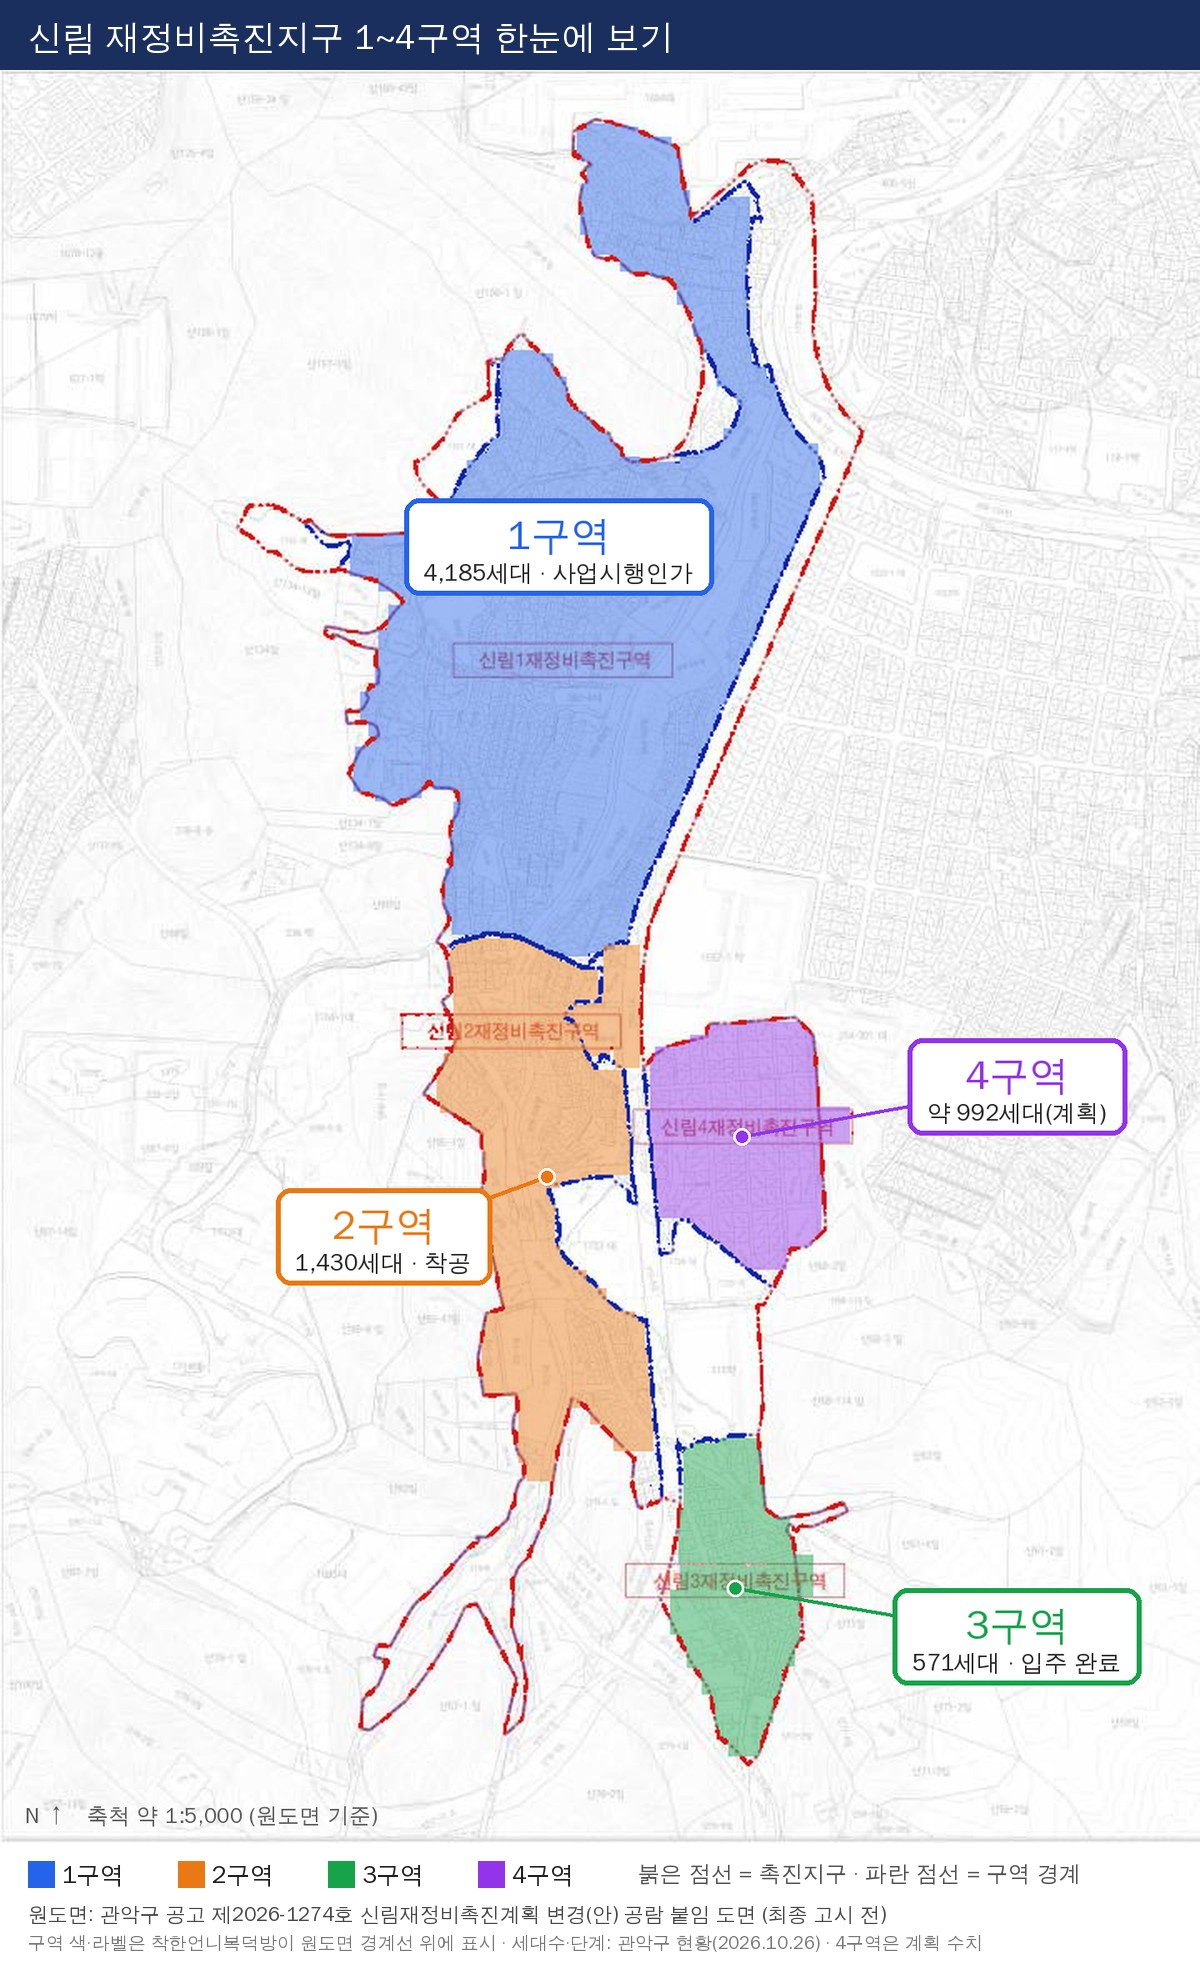
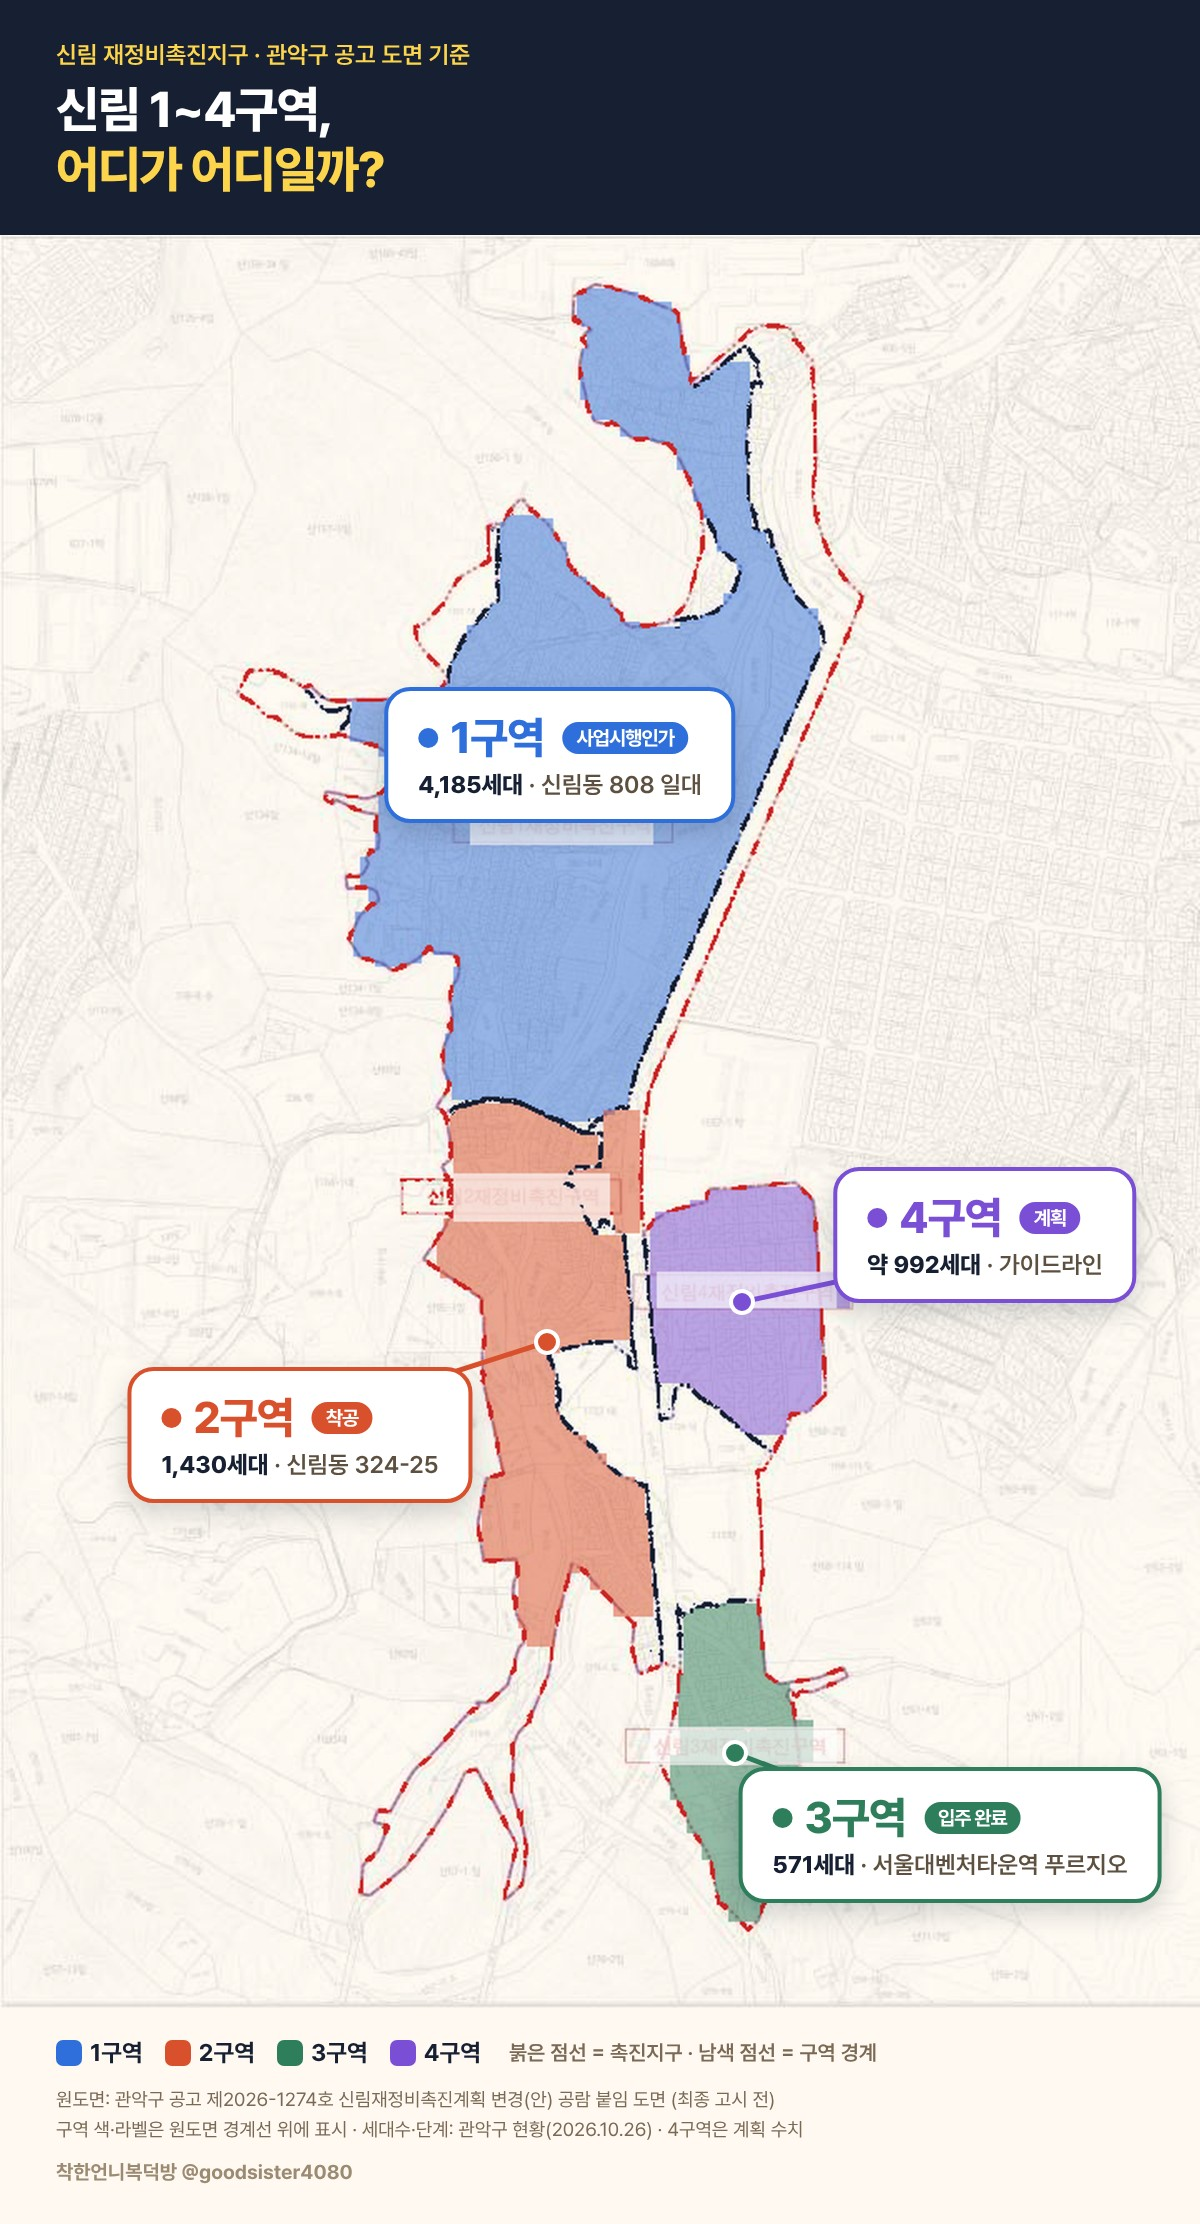
Restyle Sillim zone map in card-news tone (Pretendard, card palette)
Claude-Session: https://claude.ai/code/session_01TVq9LzjZFYSSJLZgCBoE65

diff --git a/naver/paste/img/src/zones.html b/naver/paste/img/src/zones.html
@@ -1,0 +1,48 @@
+<!doctype html><html lang="ko"><head><meta charset="utf-8">
+<link rel="stylesheet" href="https://cdn.jsdelivr.net/gh/orioncactus/pretendard@v1.3.9/dist/web/static/pretendard.min.css">
+<style>
+*{box-sizing:border-box;margin:0;padding:0}
+body{font-family:Pretendard,sans-serif;word-break:keep-all;background:#888}
+.w{width:1200px;background:#FFF9F1;color:#172033}
+.hd{background:#172033;color:#fff;padding:40px 56px 36px}
+.hd .ey{font-size:24px;font-weight:600;color:#FDD54D;margin-bottom:10px}
+.hd h1{font-size:50px;font-weight:800;letter-spacing:-1.5px;line-height:1.2}
+.hd h1 .y{color:#FDD54D}
+.map{position:relative;width:1200px;height:1773px;background:url(base_nolabel.png) 0 0/1200px auto no-repeat}
+svg{position:absolute;inset:0}
+.lb{position:absolute;transform:translate(-50%,-50%);background:#fff;border-radius:26px;padding:20px 30px 20px;box-shadow:0 10px 26px rgba(23,32,51,.18);border:4px solid var(--c);text-align:left;white-space:nowrap}
+.lb .n{display:flex;align-items:center;gap:12px;font-size:44px;font-weight:800;letter-spacing:-1px;color:var(--c)}
+.lb .n i{display:inline-block;width:20px;height:20px;border-radius:50%;background:var(--c)}
+.lb .s{font-size:24px;font-weight:600;color:#5D5040;margin-top:6px}
+.lb .s b{color:#172033;font-weight:800}
+.st{display:inline-block;font-size:20px;font-weight:700;color:#fff;background:var(--c);border-radius:999px;padding:4px 14px;margin-left:6px;vertical-align:3px}
+.ft{padding:30px 56px 40px}
+.lg{display:flex;flex-wrap:wrap;gap:12px 22px;align-items:center;font-size:24px;font-weight:700}
+.lg span{display:flex;align-items:center;gap:8px}
+.lg i{width:26px;height:26px;border-radius:7px;display:inline-block}
+.lg em{font-style:normal;font-size:21px;font-weight:600;color:#7A6A55;margin-left:6px}
+.src{margin-top:18px;font-size:19px;color:#7A6A55;line-height:1.6}
+.brand{margin-top:14px;font-size:20px;font-weight:700;color:#9C8B73}
+</style></head><body><div class="w">
+<div class="hd"><p class="ey">신림 재정비촉진지구 · 관악구 공고 도면 기준</p><h1>신림 1~4구역,<br><span class="y">어디가 어디일까?</span></h1></div>
+<div class="map">
+<svg width="1200" height="1773">
+ <g stroke-width="5" fill="none">
+  <line x1="547" y1="1107" x2="320" y2="1180" stroke="#D9502C"/>
+  <line x1="742" y1="1067" x2="985" y2="1015" stroke="#7A4FD6"/>
+  <line x1="735" y1="1518" x2="950" y2="1600" stroke="#2E7D5B"/>
+ </g>
+ <circle cx="547" cy="1107" r="11" fill="#D9502C" stroke="#fff" stroke-width="4"/>
+ <circle cx="742" cy="1067" r="11" fill="#7A4FD6" stroke="#fff" stroke-width="4"/>
+ <circle cx="735" cy="1518" r="11" fill="#2E7D5B" stroke="#fff" stroke-width="4"/>
+</svg>
+<div class="lb" style="--c:#2F6FDB;left:560px;top:520px"><div class="n"><i></i>1구역<span class="st">사업시행인가</span></div><div class="s"><b>4,185세대</b> · 신림동 808 일대</div></div>
+<div class="lb" style="--c:#D9502C;left:300px;top:1200px"><div class="n"><i></i>2구역<span class="st">착공</span></div><div class="s"><b>1,430세대</b> · 신림동 324-25</div></div>
+<div class="lb" style="--c:#7A4FD6;left:985px;top:1000px"><div class="n"><i></i>4구역<span class="st">계획</span></div><div class="s"><b>약 992세대</b> · 가이드라인</div></div>
+<div class="lb" style="--c:#2E7D5B;left:950px;top:1600px"><div class="n"><i></i>3구역<span class="st">입주 완료</span></div><div class="s"><b>571세대</b> · 서울대벤처타운역 푸르지오</div></div>
+</div>
+<div class="ft">
+ <div class="lg"><span><i style="background:#2F6FDB"></i>1구역</span><span><i style="background:#D9502C"></i>2구역</span><span><i style="background:#2E7D5B"></i>3구역</span><span><i style="background:#7A4FD6"></i>4구역</span><em>붉은 점선 = 촉진지구 · 남색 점선 = 구역 경계</em></div>
+ <p class="src">원도면: 관악구 공고 제2026-1274호 신림재정비촉진계획 변경(안) 공람 붙임 도면 (최종 고시 전)<br>구역 색·라벨은 원도면 경계선 위에 표시 · 세대수·단계: 관악구 현황(2026.10.26) · 4구역은 계획 수치</p>
+ <p class="brand">착한언니복덕방 @goodsister4080</p>
+</div></div></body></html>
